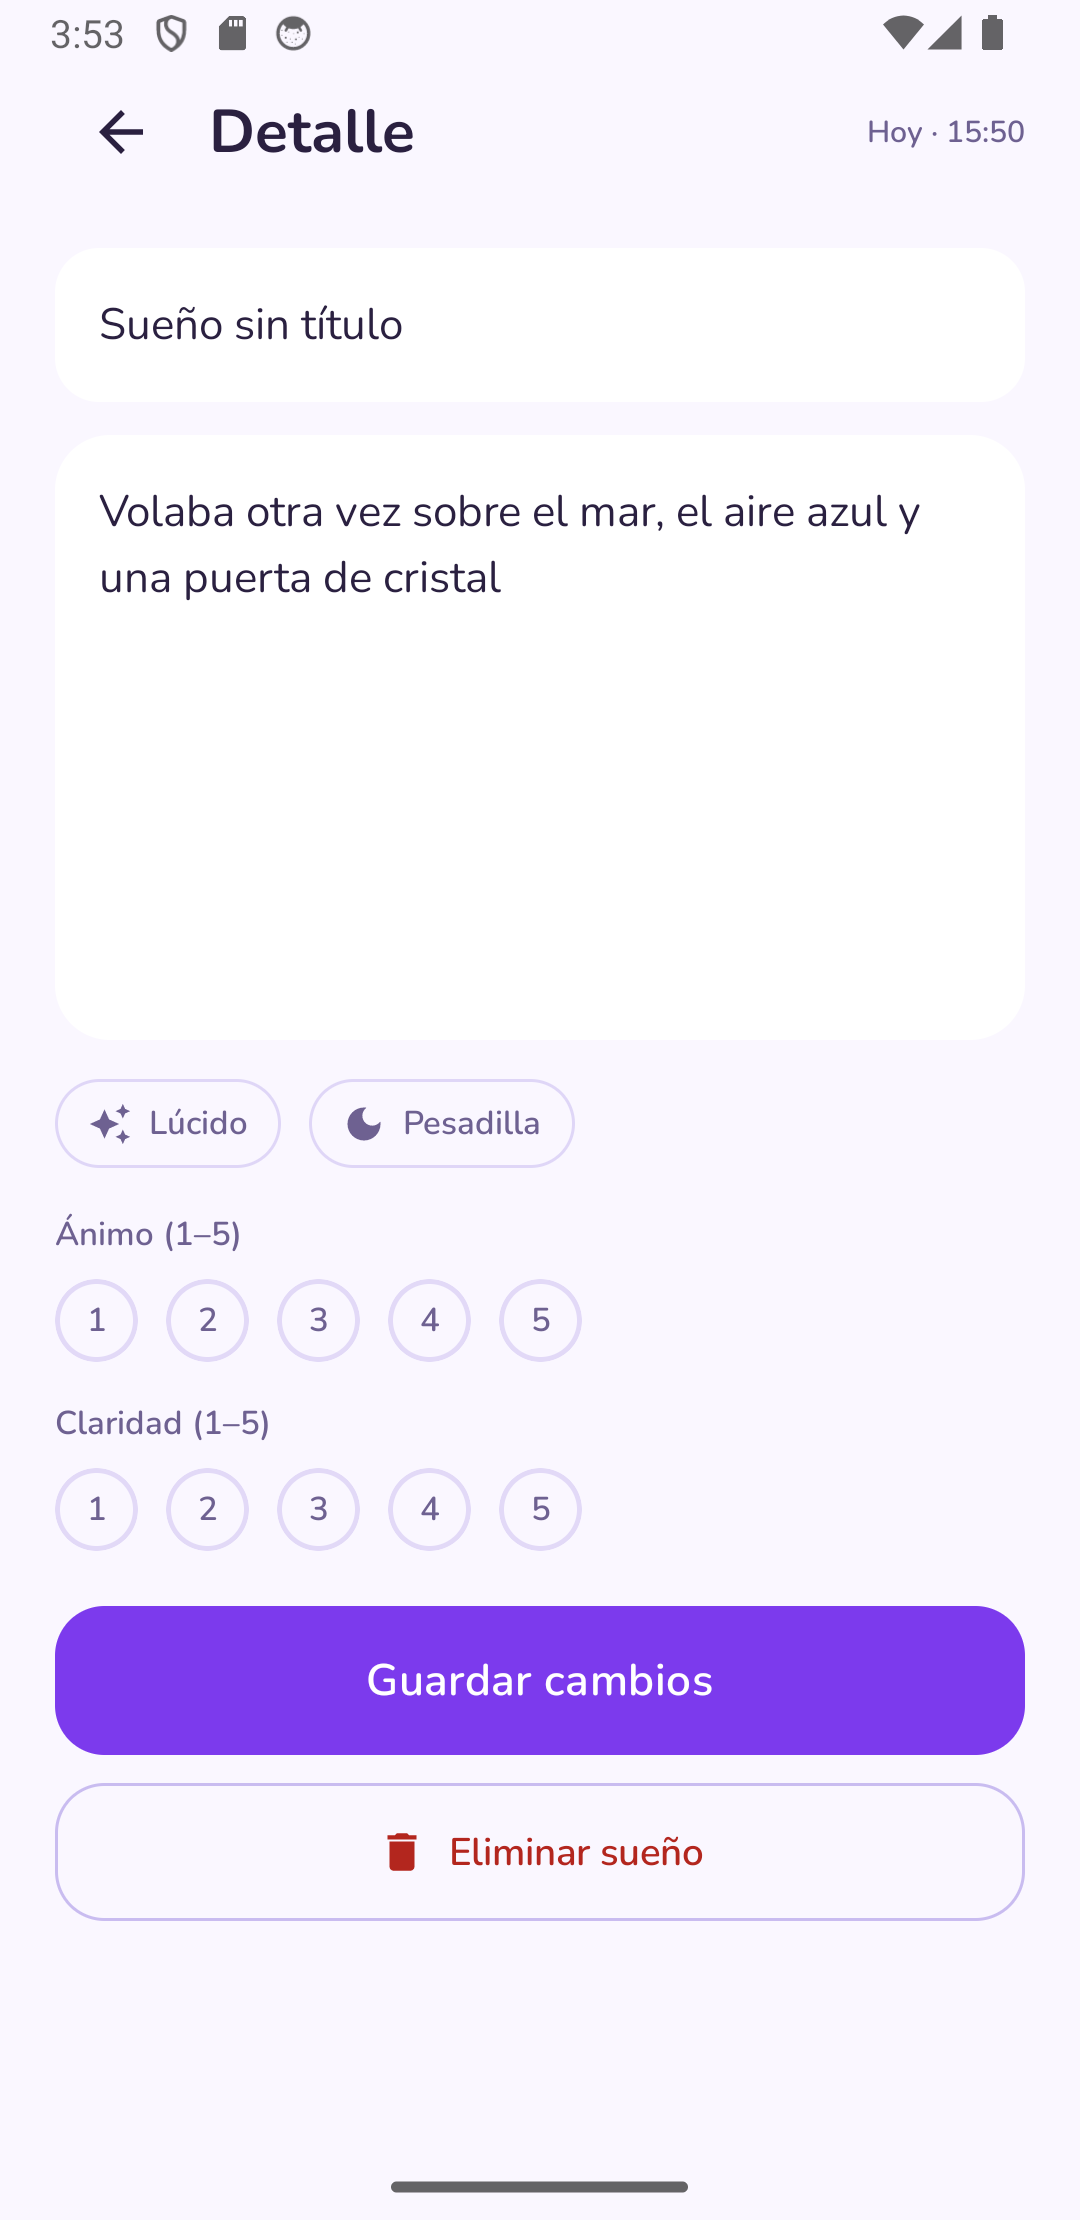
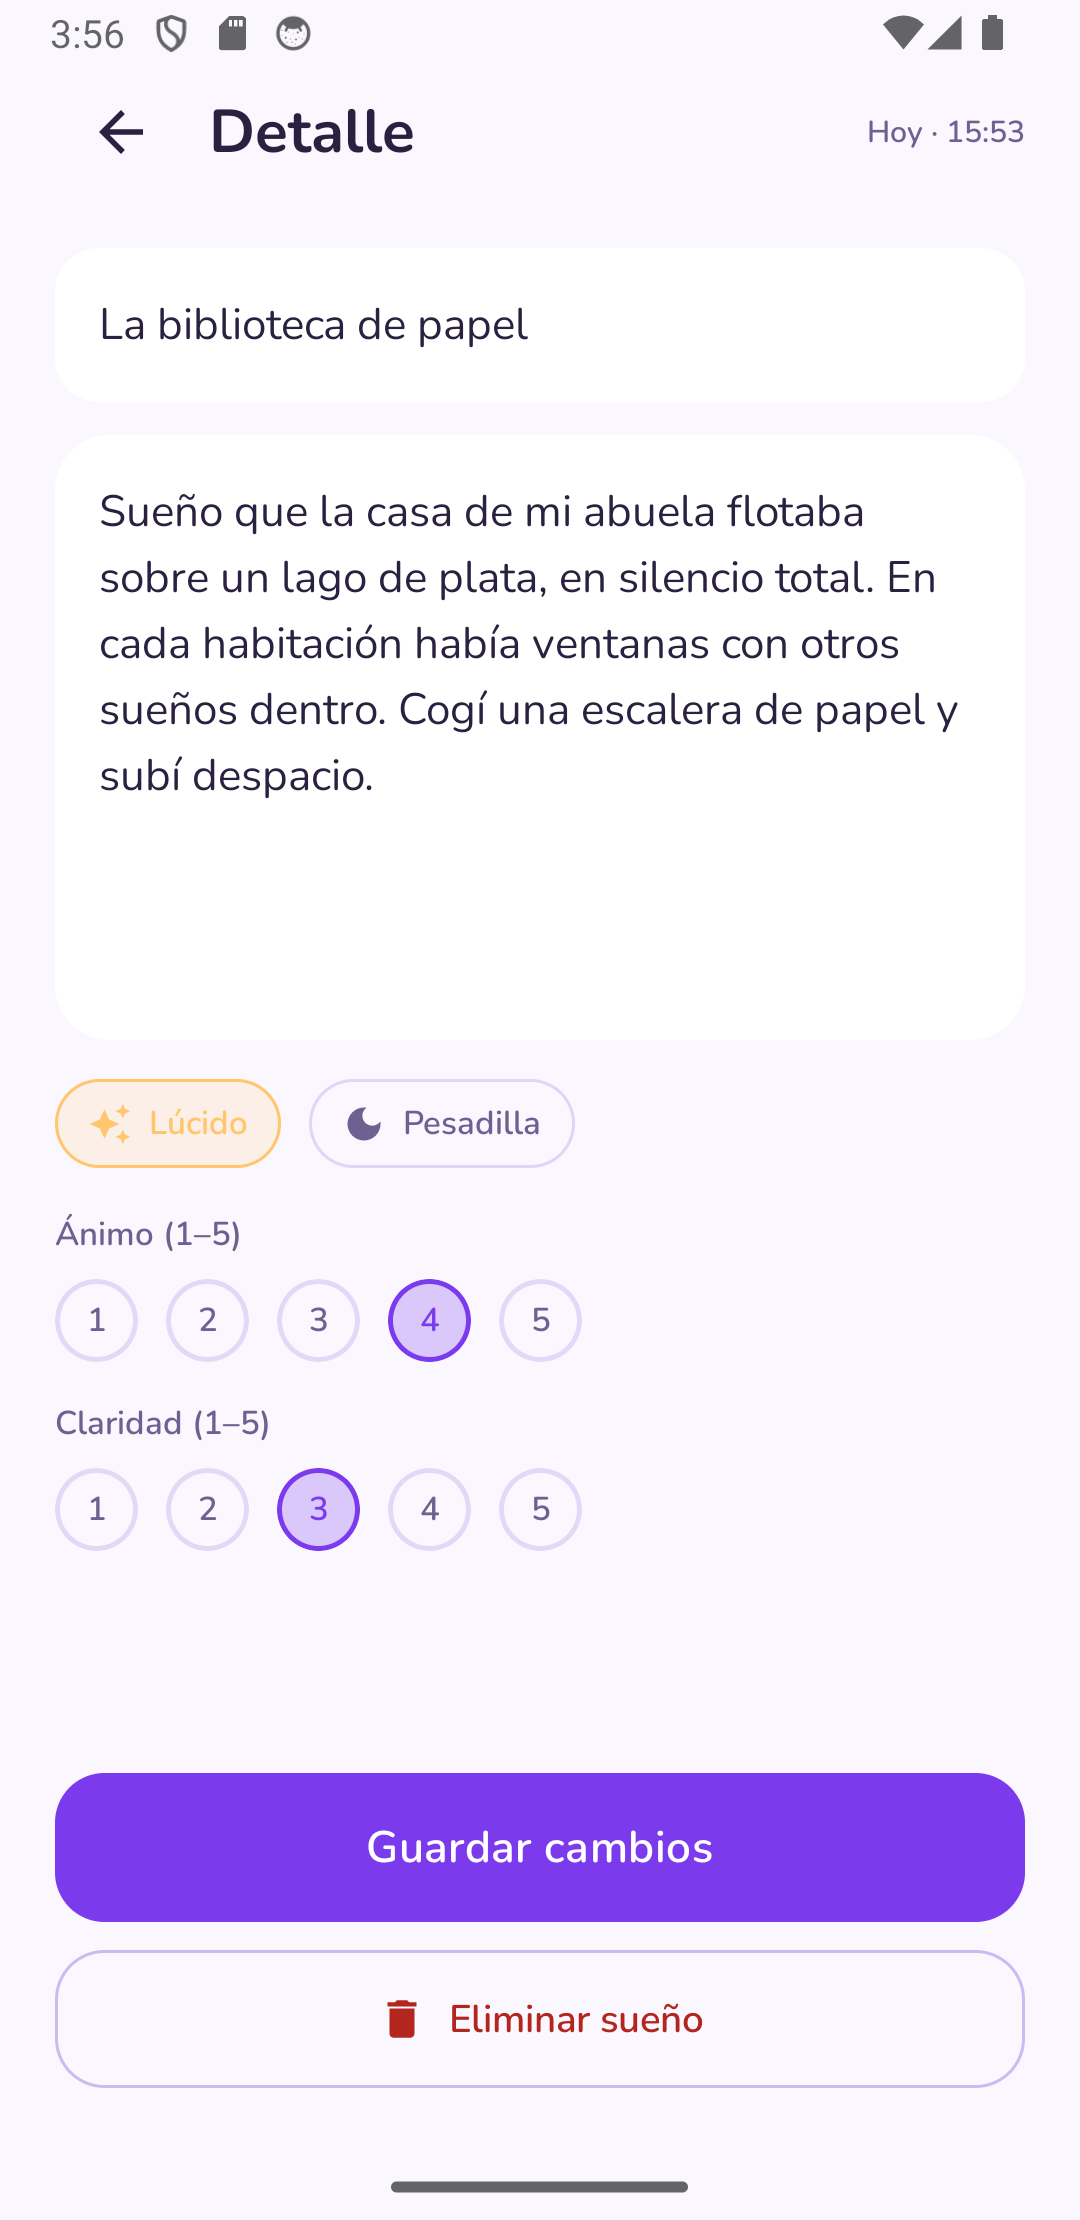
docs: README de nivel portfolio (ES/EN) + capturas regeneradas con datos demo limpios

diff --git a/README.md b/README.md
@@ -1,26 +1,59 @@
-# AppOnírica 🌙
+# 🌙 AppOnírica
 
-App Android de diario de sueños con foco en **captura por voz**: nada más despertar, grabas una nota con tu voz, se **transcribe en tu propio móvil** (sin internet, sin nube) y queda guardada como registro del diario, con **palabras clave extraídas automáticamente** (dream signs) y estadísticas.
+> Diario de sueños para Android con captura por voz y **transcripción 100% offline**: tu voz, tu texto y tu audio nunca salen del móvil.
 
-Repo público: [github.com/DiegoVillena/apponirica](https://github.com/DiegoVillena/apponirica)
+![Plataforma](https://img.shields.io/badge/plataforma-Android-3DDC84) ![Transcripción](https://img.shields.io/badge/transcripci%C3%B3n-100%25_offline-8B5CF6) ![Privacidad](https://img.shields.io/badge/sin_telemetr%C3%ADa_ni_analytics-A78BFA) ![Estado](https://img.shields.io/badge/estado-app_personal-orange) ![Licencia](https://img.shields.io/badge/licencia_todos_los_derechos_reservados-lightgrey)
 
-## Privacidad: la voz nunca sale del móvil
+**Español** · [English](README.en.md)
 
-Por defecto la app usa un **motor de transcripción 100% offline** ([Vosk](https://alphacephei.com/vosk/), modelo small-es empaquetado en el APK): ni el audio ni el texto se envían a ningún servidor. Hay un motor alternativo opcional (el recognizer de Google del sistema, algo más exacto) que puede elegirse en **Ajustes**, dejando claro que en ese caso la voz sí va a los servidores de Google.
+App Android de diario de sueños que **yo mismo uso a diario en mi móvil**: nada más despertar grabo una nota con la voz, un motor de transcripción local la convierte a texto sin internet, y el sueño queda guardado con título, marcadores (lúcido/pesadilla), ánimo y claridad. Las palabras clave del sueño se extraen automáticamente con un stemmer propio y se acumulan para mostrar mis temas recurrentes. Construida de principio a fin por una sola persona (desarrollo asistido por IA), sin Hilt y sin Firebase.
 
-| | Vosk local (por defecto) | Google del sistema |
+## Por qué existe
+
+Es la app que quise para mí: un diario de sueños sin fricción (la voz es la forma natural de capturar algo nada más despertar), 100% privado y sin dependencias de nube. El código queda aquí como pieza de portfolio: puedes leerlo, compilarlo y usarlo como referencia.
+
+## 🔒 Privacidad: la voz nunca sale del móvil
+
+Por defecto la app transcribe con un **motor local** ([Vosk](https://alphacephei.com/vosk/), modelo small-es empaquetado en el APK): ni el audio ni el texto se envían a ningún servidor; no hay telemetría, analytics, cuentas ni peticiones de red en el flujo normal de la app.
+
+| | Vosk local (por defecto) | Google del sistema (opcional) |
 |---|---|---|
 | Internet | No hace falta | Necesario |
-| Privacidad | Nada sale del móvil | Audio en servidores de Google |
-| Audio adjunto | Sí (WAV del sueño) | No (MIUI no comparte el mic) |
-| Beep de fondo | No | Sí (servicio de Google) |
+| Privacidad | Nada sale del móvil | La voz va a los servidores de Google |
+| Audio adjunto | Sí (WAV del sueño) | No (algunas ROMs no comparten el mic) |
+| Beep de fondo | No | Sí |
+
+El motor de Google es una alternativa **opcional** que el usuario elige en Ajustes; nunca es motor por defecto ni vía de datos de la app.
+
+## ✨ Capturas
+
+<table>
+  <tr>
+    <td><img src="docs/capturas/diario.png" width="200" alt="Diario"></td>
+    <td><img src="docs/capturas/captura.png" width="200" alt="Captura por voz"></td>
+    <td><img src="docs/capturas/detalle.png" width="200" alt="Detalle del sueño"></td>
+  </tr>
+  <tr>
+    <td><i>Diario con palabras clave</i></td>
+    <td><i>Captura por voz</i></td>
+    <td><i>Detalle con nota de voz</i></td>
+  </tr>
+  <tr>
+    <td><img src="docs/capturas/estadisticas.png" width="200" alt="Estadísticas"></td>
+    <td><img src="docs/capturas/ajustes.png" width="200" alt="Ajustes"></td>
+  </tr>
+  <tr>
+    <td><i>Estadísticas (1 palabra por sueño)</i></td>
+    <td><i>Selector de motor de transcripción</i></td>
+  </tr>
+</table>
 
 ## Qué guarda cada sueño
 
-- Texto transcritó (editable a mano) + título opcional.
+- Texto transcrito (editable a mano) + título opcional.
 - Audio de la nota (WAV) y reproductor en el detalle.
 - Marcas: Lúcido / Pesadilla, ánimo y claridad (1–5).
-- Fecha + origen (voz o teclado), palabras clave con stemming en español, búsqueda de texto completo (FTS4) y estadísticas (total, racha, meses, top de dream signs).
+- Fecha + origen (voz o teclado), palabras clave con stemming en español, búsqueda de texto completo (FTS4) y estadísticas (total, racha, meses y top de dream signs contando cada palabra como máximo 1 vez por sueño).
 
 ## Stack
 
@@ -52,6 +85,17 @@ app/src/main/java/com/diegovillena/apponirica/
 └── ui/             tema, captura, detalle, diario, estadísticas, ajustes
 ```
 
-## Roadmap
+## Estado y roadmap
 
-Widget de captura rápida al despertar · detección de sueños recurrentes · export/import · PIN · recordatorios · mejora de calidad del motor (sherpa-onnx / Whisper) — ver `docs/investigacion.md` y `docs/plan-fase2.md`.
+- **Ahora: app personal funcionando en mi móvil.** MVP esqueleto → fase 2 (motor offline Vosk con WAV adjunto y selector de motor) → pulido de usabilidad y de datos (estadísticas por presencia, refresco de listas, formularios scrollables).
+- Pendiente/elegible después: widget de captura rápida al despertar · detección de sueños recurrentes · export/import · PIN · recordatorios · mejora de calidad del motor (sherpa-onnx / Whisper). Véase `docs/investigacion.md` y `docs/plan-fase2.md`.
+
+## Limitaciones honestas
+
+- El modelo small transcribe con error del orden del 11–16% (WER): el campo es editable a mano y el motor de Google es la alternativa de calidad.
+- Sin export/import todavía: los sueños viven en la base de datos local del móvil.
+- App para uso personal: sin licencia open-source (todos los derechos reservados, ver abajo).
+
+## Licencia
+
+© 2026 Diego Villena. Todos los derechos reservados. El código se publica en GitHub con fines de portfolio y de referencia: puedes leerlo, compilarlo y probarlo, pero no redistribuirlo ni reutilizarlo sin permiso. La app se ofrece «tal cual», sin garantía de ningún tipo; los datos de tus sueños son tuyos y viven localmente en tu dispositivo.

diff --git a/README.en.md b/README.en.md
@@ -1,0 +1,101 @@
+# 🌙 AppOnírica
+
+> Dream journal for Android with voice capture and **100% offline transcription** — your voice, your text and your audio never leave the phone.
+
+![Platform](https://img.shields.io/badge/platform-Android-3DDC84) ![Transcription](https://img.shields.io/badge/transcription-100%25_offline-8B5CF6) ![Privacy](https://img.shields.io/badge/no_telemetry_no_analytics-A78BFA) ![Status](https://img.shields.io/badge/status-personal_app-orange) ![License](https://img.shields.io/badge/license_all_rights_reserved-lightgrey)
+
+[**Español**](README.md) · English
+
+An Android dream-journal app that **I personally use every day on my own phone**: right after waking up I record a voice note, a local speech engine transcribes it without any internet connection, and the dream is saved with a title, markers (lucid/nightmare), mood and clarity. Keywords are extracted automatically with a hand-written Spanish stemmer and accumulated to surface recurring themes. Built end to end by a single person (with AI-assisted development), no Hilt and no Firebase.
+
+## Why it exists
+
+It's the app I wanted for myself: a dream journal with zero friction (voice is the natural way to capture a dream the moment you wake up), fully private, with no cloud dependencies. The code lives here as a portfolio piece: read it, build it and use it as a reference.
+
+## 🔒 Privacy: your voice never leaves the phone
+
+By default the app transcribes with a **local engine** ([Vosk](https://alphacephei.com/vosk/), small-es model bundled in the APK): neither audio nor text is ever sent to a server; there is no telemetry, no analytics, no accounts and no network requests in the app's normal flow.
+
+| | Local Vosk (default) | System Google (optional) |
+|---|---|---|
+| Internet | Not needed | Required |
+| Privacy | Nothing leaves the phone | Voice goes to Google servers |
+| Voice attachment | Yes (dream WAV) | No (some ROMs don't share the mic) |
+| Startup beep | No | Yes |
+
+The Google engine is an **optional** alternative the user picks in Settings; it is never the default engine nor a data channel of the app.
+
+## ✨ Screenshots
+
+<table>
+  <tr>
+    <td><img src="docs/capturas/diario.png" width="200" alt="Journal"></td>
+    <td><img src="docs/capturas/captura.png" width="200" alt="Voice capture"></td>
+    <td><img src="docs/capturas/detalle.png" width="200" alt="Dream detail"></td>
+  </tr>
+  <tr>
+    <td><i>Journal with keywords</i></td>
+    <td><i>Voice capture</i></td>
+    <td><i>Dream detail with voice note</i></td>
+  </tr>
+  <tr>
+    <td><img src="docs/capturas/estadisticas.png" width="200" alt="Statistics"></td>
+    <td><img src="docs/capturas/ajustes.png" width="200" alt="Settings"></td>
+  </tr>
+  <tr>
+    <td><i>Statistics (one entry per dream)</i></td>
+    <td><i>Transcription engine picker</i></td>
+  </tr>
+</table>
+
+## What each dream stores
+
+- Transcribed text (hand-editable) + optional title.
+- Voice-note audio (WAV) with a player in the detail screen.
+- Markers: Lucid / Nightmare, mood and clarity (1–5).
+- Date + origin (voice or keyboard), Spanish-stemmed keywords, full-text search (FTS4), and statistics (total, streak, monthly buckets and top dream signs — each word counts at most once per dream).
+
+## Stack
+
+- Native Android: Kotlin 2.0.21 + Jetpack Compose (Material 3) + Navigation Compose.
+- Room (FTS4) + DataStore, coroutines/Flow, manual DI (no Hilt).
+- Offline transcription: `vosk-android 0.3.47` with `vosk-model-small-es-0.42` (Apache 2.0) in `assets` — the APK weighs ~96 MB because of the model.
+- Toolchain: Gradle 8.9, AGP 8.7.3, JDK 17, minSdk 26, targetSdk/compileSdk 35.
+
+## Building and trying it
+
+```bash
+./gradlew :app:assembleDebug        # APK at app/build/outputs/apk/debug/
+./gradlew :app:testDebugUnitTest    # keyword extractor tests (JVM)
+```
+
+Requirements: JDK 17 and an Android SDK (AGP 8.7.3). Install the APK on a real device for real voice; on an emulator the offline engine works just the same (CPU) although the test environment provides no real voice.
+
+## Structure
+
+```
+app/src/main/java/com/diegovillena/apponirica/
+├── core/
+│   ├── audio/      EscritorWav (16 kHz mono PCM WAV)
+│   └── keywords/   StemmerEspanol, ExtractoraPalabrasClave, StopwordsEspanol
+├── data/
+│   ├── db/         Room: Dream+FTS4, PalabraClave, links, DAOs
+│   └── repo/       RepositorioSuenos (save/delete recomputes keywords)
+├── transcription/  Transcriptor (contract) · TranscriptorVosk · TranscriptorSistema
+└── ui/             theme, capture, detail, journal, statistics, settings
+```
+
+## Status and roadmap
+
+- **Now: a personal app running on my phone.** MVP skeleton → phase 2 (offline Vosk engine with WAV attachment and engine picker) → usability and data polish (presence-based statistics, list refresh, scrollable forms).
+- Optional later work: quick-capture widget on waking · recurring-dream detection · export/import · PIN · reminders · higher-quality engine (sherpa-onnx / Whisper). See `docs/investigacion.md` and `docs/plan-fase2.md`.
+
+## Honest limitations
+
+- The small model transcribes with roughly 11–16% WER: the field is hand-editable and the Google engine is the quality alternative.
+- No export/import yet: dreams live in the phone's local database.
+- Personal-use app: not released under an open-source license (all rights reserved, see below).
+
+## License
+
+© 2026 Diego Villena. All rights reserved. The code is published on GitHub as a portfolio and reference piece: you may read it, build it and try it, but not redistribute or reuse it without permission. The app is provided "as is", without warranty of any kind; your dream data is yours and lives on your device.
